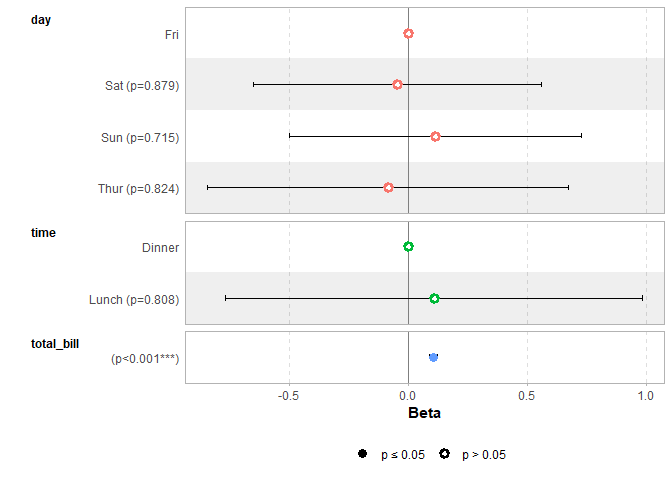
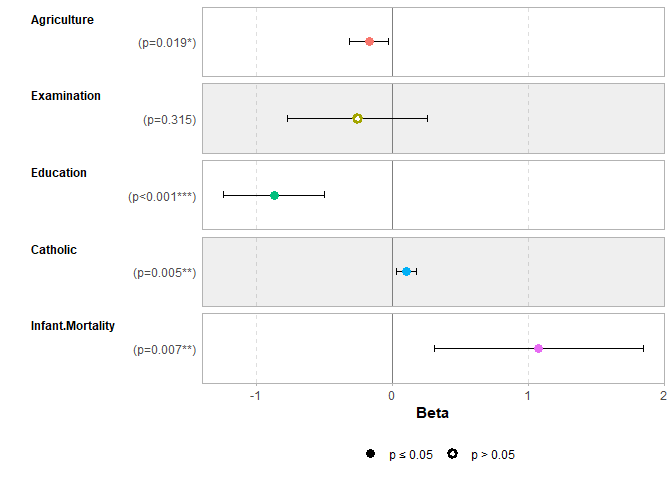
README update

diff --git a/README.md b/README.md
@@ -42,14 +42,13 @@ To install development version:
 remotes::install_github("larmarange/ggstats")
 ```
 
-## A basic example
+## Plot model coefficients
 
 ``` r
 library(ggstats)
 
-data(tips, package = "reshape")
-mod_simple <- lm(tip ~ day + time + total_bill, data = tips)
-ggcoef_model(mod_simple)
+mod1 <- lm(Fertility ~ ., data = swiss)
+ggcoef_model(mod1)
 ```
 
 <img src="man/figures/README-unnamed-chunk-4-1.png" width="100%" />
@@ -57,18 +56,77 @@ ggcoef_model(mod_simple)
 ## Comparing several models
 
 ``` r
-mod1 <- lm(Fertility ~ ., data = swiss)
-  mod2 <- step(mod1, trace = 0)
-  mod3 <- lm(Fertility ~ Agriculture + Education * Catholic, data = swiss)
-  models <- list("Full model" = mod1, "Simplified model" = mod2, "With interaction" = mod3)
+mod2 <- step(mod1, trace = 0)
+mod3 <- lm(Fertility ~ Agriculture + Education * Catholic, data = swiss)
+models <- list(
+  "Full model" = mod1, 
+  "Simplified model" = mod2, 
+  "With interaction" = mod3
+)
 
-  ggcoef_compare(models)
+ggcoef_compare(models, type = "faceted")
 ```
 
 <img src="man/figures/README-unnamed-chunk-5-1.png" width="100%" />
 
+## Compute custom proportions
+
 ``` r
-  ggcoef_compare(models, type = "faceted")
+library(ggplot2)
+ggplot(as.data.frame(Titanic)) +
+  aes(x = Class, fill = Survived, weight = Freq, by = Class) +
+  geom_bar(position = "fill") +
+  geom_text(stat = "prop", position = position_fill(.5)) +
+  facet_grid(~ Sex)
 ```
 
-<img src="man/figures/README-unnamed-chunk-5-2.png" width="100%" />
+<img src="man/figures/README-unnamed-chunk-6-1.png" width="100%" />
+
+## Compute weighted mean
+
+``` r
+data(tips, package = "reshape")
+ggplot(tips) +
+  aes(x = day, y = total_bill, fill = sex) +
+  stat_weighted_mean(geom = "bar", position = "dodge") +
+  ylab("Mean total bill per day and sex")
+```
+
+<img src="man/figures/README-unnamed-chunk-7-1.png" width="100%" />
+
+## Compute cross-tabulation statistics
+
+``` r
+ggplot(as.data.frame(Titanic)) +
+  aes(
+    x = Class, y = Survived, weight = Freq,
+    size = after_stat(observed), fill = after_stat(std.resid)
+  ) +
+  stat_cross(shape = 22) +
+  scale_fill_steps2(breaks = c(-3, -2, 2, 3), show.limits = TRUE) +
+  scale_size_area(max_size = 20)
+```
+
+<img src="man/figures/README-unnamed-chunk-8-1.png" width="100%" />
+
+## Plot survey objects taking into account weights
+
+``` r
+library(survey, quietly = TRUE)
+#> 
+#> Attachement du package : 'survey'
+#> L'objet suivant est masqué depuis 'package:graphics':
+#> 
+#>     dotchart
+dw <- svydesign(
+  ids = ~ 1, 
+  weights = ~ Freq, 
+  data = as.data.frame(Titanic)
+)
+ggsurvey(dw) +
+  aes(x = Class, fill = Survived) +
+  geom_bar(position = "fill") +
+  ylab("Weighted proportion of survivors")
+```
+
+<img src="man/figures/README-unnamed-chunk-9-1.png" width="100%" />
